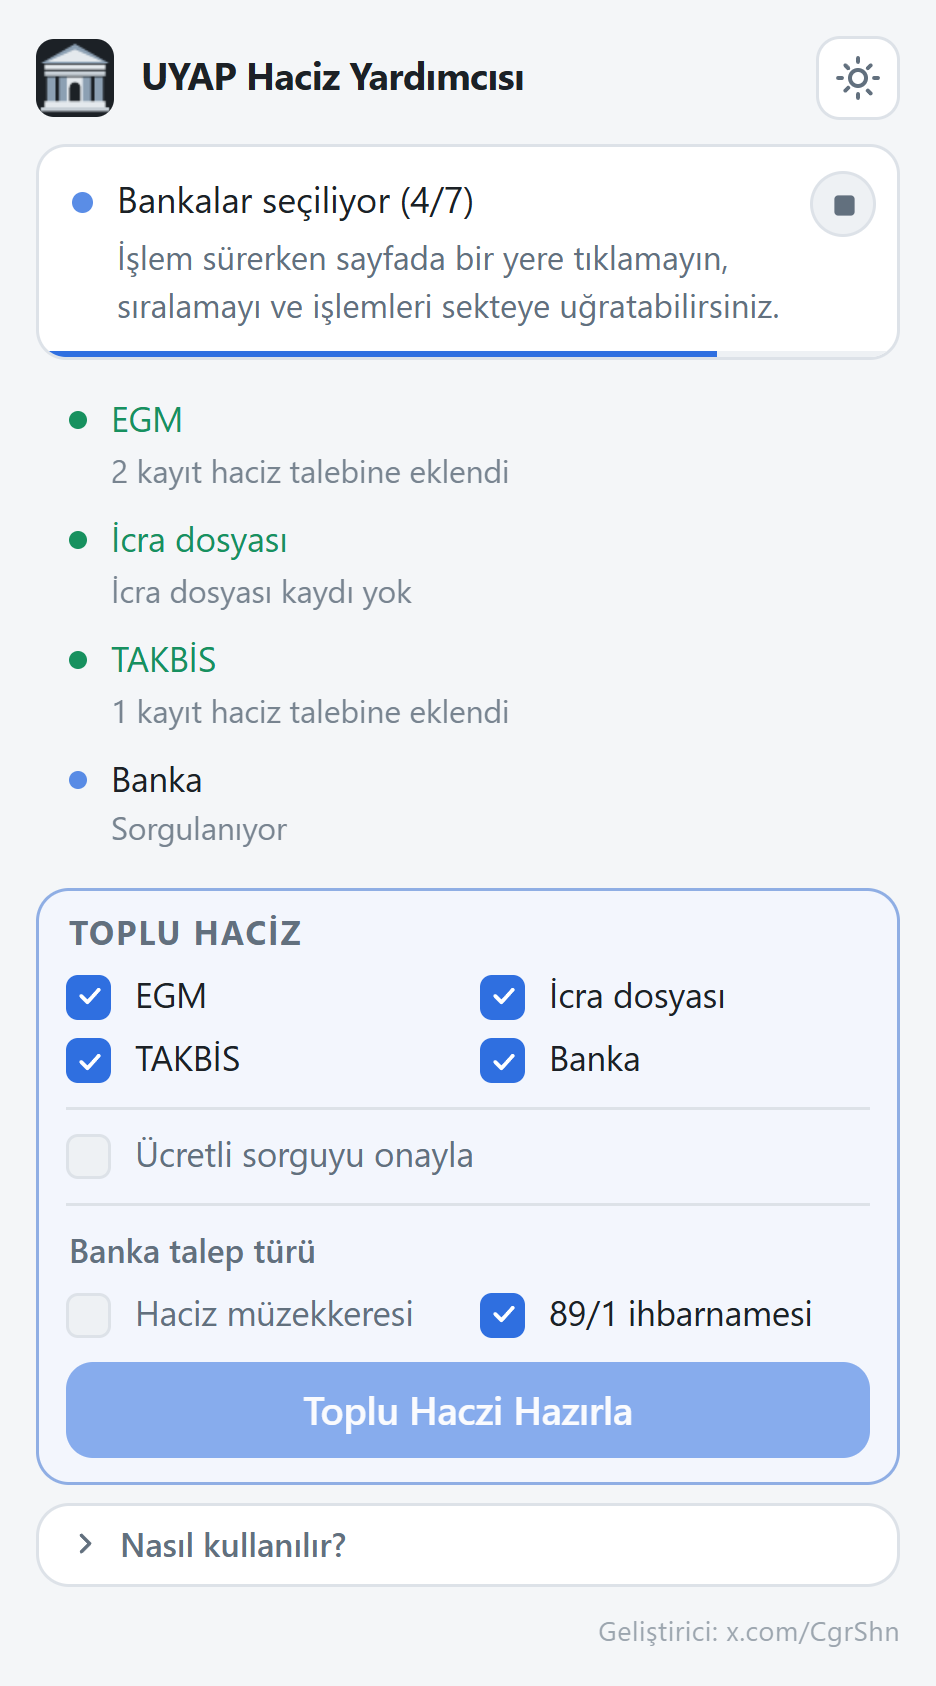
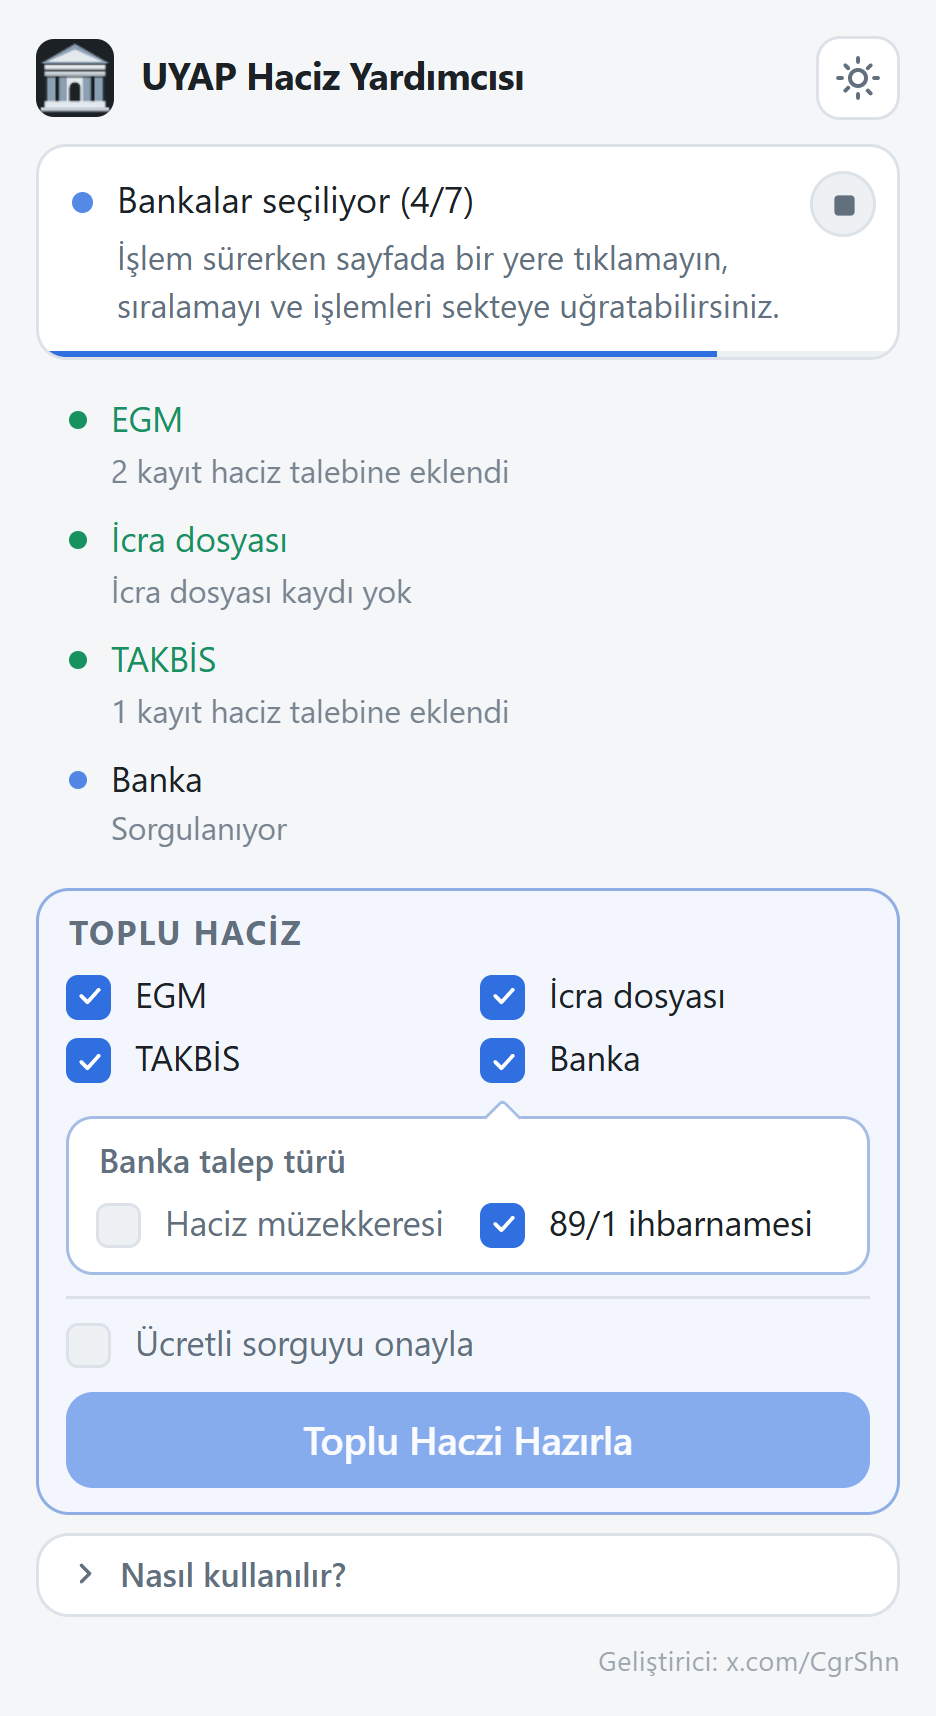
Banka talep türü Banka'ya bağlı alt kutuda, yalnız Banka seçiliyken görünür
- Banka talep türü tür tiklerinin hemen altına, ücretli sorgu onayının üstüne
  alındı. Üstündeki çentik Banka'yı gösteriyor, "89/1 ihbarnamesi"nin tiki
  Banka'nın tikinin tam altına düşüyor.
- Banka seçili değilken kutu gizli. Gizlenince seçim kaybolmaz, Banka yeniden
  seçilince aynen döner.
- README ve pencere görseli güncellendi.

diff --git a/popup.html b/popup.html
@@ -87,7 +87,7 @@
             <span class="check__label">TAKBİS</span>
           </label>
           <label class="check">
-            <input type="checkbox" data-opt="toplu.banka">
+            <input type="checkbox" data-opt="toplu.banka" aria-controls="evrak">
             <span class="check__box">
               <svg viewBox="0 0 24 24" width="10" height="10" aria-hidden="true">
                 <path d="m5 12 5 5L19 7" fill="none" stroke="currentColor" stroke-width="3"
@@ -98,21 +98,12 @@
           </label>
         </div>
 
-        <label class="check check--sep">
-          <input type="checkbox" data-opt="toplu.paid">
-          <span class="check__box">
-            <svg viewBox="0 0 24 24" width="10" height="10" aria-hidden="true">
-              <path d="m5 12 5 5L19 7" fill="none" stroke="currentColor" stroke-width="3"
-                    stroke-linecap="round" stroke-linejoin="round"/>
-            </svg>
-          </span>
-          <span class="check__label">Ücretli sorguyu onayla</span>
-        </label>
-
-        <!-- Banka talebinin evrak türü de ayrı bir karardır: çizgiyle ayrılır.
-             İkisi aynı anda seçilemez; bu yüzden girdiler radyo düğmesidir,
-             yalnız görünüşleri tik kutusudur. Öntanımlısı 89/1. -->
-        <div class="evrak check--sep" role="radiogroup" aria-labelledby="evrak-title">
+        <!-- Banka talebinin evrak türü Banka'nın bir parçasıdır: Yalnız Banka
+             seçiliyken görünür ve hemen altında, üstündeki çentikle Banka'yı
+             gösteren bir alt kutuda durur. İkisi aynı anda seçilemez. Bu yüzden
+             girdiler radyo düğmesidir, yalnız görünüşleri tik kutusudur.
+             Öntanımlısı 89/1. -->
+        <div id="evrak" class="evrak" role="radiogroup" aria-labelledby="evrak-title">
           <div id="evrak-title" class="evrak__title">Banka talep türü</div>
           <div class="picks">
             <label class="check">
@@ -137,6 +128,17 @@
             </label>
           </div>
         </div>
+
+        <label class="check check--sep">
+          <input type="checkbox" data-opt="toplu.paid">
+          <span class="check__box">
+            <svg viewBox="0 0 24 24" width="10" height="10" aria-hidden="true">
+              <path d="m5 12 5 5L19 7" fill="none" stroke="currentColor" stroke-width="3"
+                    stroke-linecap="round" stroke-linejoin="round"/>
+            </svg>
+          </span>
+          <span class="check__label">Ücretli sorguyu onayla</span>
+        </label>
       </div>
 
       <!-- Düğme bölümün en altındadır: önce ne yapılacağı seçilir, sonra basılır. -->

diff --git a/popup.css b/popup.css
@@ -423,7 +423,51 @@ html[data-theme="dark"] .ico-moon { display: inline; }
   border-top: 1px solid var(--border);
 }
 
-/* Banka talebinin evrak türü: iki seçenekten biri daima seçilidir. */
+/* Banka talebinin evrak türü: iki seçenekten biri daima seçilidir. Banka'ya
+   bağlı bir alt kutudur. Yalnız Banka seçiliyken görünür (bkz. popup.js),
+   tür tiklerinin hemen altında durur, üstündeki çentik Banka'yı gösterir.
+   Kutunun iç boşluğu iki yanda eşit olduğu için içindeki ızgaranın sağ
+   sütunu dıştaki ızgaranınkiyle aynı yerden başlar: "89/1 ihbarnamesi"nin
+   tiki "Banka"nın tikinin tam altına düşer. */
+.evrak {
+  position: relative;
+  margin-top: 10px;
+  padding: 6px 9px 7px;
+  border: 1px solid color-mix(in srgb, var(--accent) 32%, var(--border));
+  border-radius: 9px;
+  background: var(--surface);
+  animation: evrak-in .16s ease-out;
+}
+
+/* Çentik: 45° döndürülmüş küçük kare. Yalnız üst ve sol kenarı çizilir, alt
+   yarısı kutunun içinde kalır ve kutunun üst kenarlığını o noktada örter.
+   Konum: Dıştaki ızgaranın sağ sütunu %50 + 4 px'te başlar, tikin ortası
+   7,5 px içeride. Hesaplanan değer (%50 + 7,5 px) çentiği her ölçekte 1 px
+   sağa kaydırıyordu (ölçüm 2026-11-09, 1x, 1,25x, 1,5x, 2x ve 3x). 6,5 px ile
+   uç tikin tam ortasına düşer. */
+.evrak::before {
+  content: "";
+  position: absolute;
+  top: -5px;
+  left: calc(50% + 6.5px);
+  width: 8px;
+  height: 8px;
+  background: inherit;
+  border-top: 1px solid color-mix(in srgb, var(--accent) 32%, var(--border));
+  border-left: 1px solid color-mix(in srgb, var(--accent) 32%, var(--border));
+  border-top-left-radius: 2px;
+  transform: rotate(45deg);
+}
+
+@keyframes evrak-in {
+  from { opacity: 0; transform: translateY(-3px); }
+  to { opacity: 1; transform: none; }
+}
+
+@media (prefers-reduced-motion: reduce) {
+  .evrak { animation: none; }
+}
+
 /* Başlık, bölüm başlığıyla (.grp__title) aynı puntodadır; ikisi de kendi
    seçenek kümesinin üstünde duran başlıktır. Büyük harf ve harf aralığı
    yalnız bölüm başlığındadır: bu satır bir cümledir. */

diff --git a/popup.js b/popup.js
@@ -38,6 +38,7 @@ const el = {
   start: document.getElementById('start'),
   stop: document.getElementById('stop'),
   reset: document.getElementById('reset'),
+  evrak: document.getElementById('evrak'),
   howto: document.querySelector('.howto'),
   status: document.getElementById('status'),
   statusText: document.getElementById('status-text'),
@@ -82,6 +83,14 @@ function applyPrefs() {
     const value = prefs[group]?.[key];
     input.checked = input.type === 'radio' ? value === input.value : !!value;
   }
+
+  syncBankaEvrak();
+}
+
+// Banka talep türü Banka'nın bir parçasıdır: Yalnız Banka seçiliyken
+// görünür. Gizlenince seçim kaybolmaz, Banka yeniden seçilince aynen döner.
+function syncBankaEvrak() {
+  el.evrak.hidden = prefs.toplu.banka === false;
 }
 
 function savePrefs() {
@@ -273,6 +282,7 @@ for (const input of document.querySelectorAll('[data-opt]')) {
     const [group, key] = input.dataset.opt.split('.');
     prefs[group][key] = input.type === 'radio' ? input.value : input.checked;
     savePrefs();
+    syncBankaEvrak();
   });
 }
 

diff --git a/README.md b/README.md
@@ -99,10 +99,10 @@ Ayarlar, eklenti simgesine basınca açılan penceredeki **Toplu Haciz** bölüm
 
 - **EGM / İcra dosyası / TAKBİS / Banka:** Hangi türlerin hazırlanacağı. Dördü de varsayılan olarak açıktır. Tiki kaldırılan tür hiç
   sorgulanmaz.
+- **Banka talep türü:** Banka seçiliyken hemen altındaki kutuda görünür. Banka haczi talebi **Haciz müzekkeresi** ya da **89/1
+  ihbarnamesi** olarak hazırlanır. Yalnız biri seçilebilir, varsayılan 89/1'dir.
 - **Ücretli sorguyu onayla:** Ücretsiz hak bittiğinde UYAP'ın açtığı "... ücret alınacaktır" kutusunu onaylar. Varsayılan olarak
   **kapalıdır**. Kapalıyken kutu **İptal** ile kapatılır ve o bölüm geçilir.
-- **Banka talep türü:** Banka haczi talebi **Haciz müzekkeresi** ya da **89/1 ihbarnamesi** olarak hazırlanır. Yalnız biri seçilebilir,
-  varsayılan 89/1'dir.
 - **Durdur:** İşlem sürerken durum kutusunun sağında küçük bir düğme (■) olarak görünür. Akışı o anda keser, eklentinin açtığı şerh, ücret
   ya da bilgi penceresini kapatır. O ana kadar talebe eklenen kayıtlar UYAP'ta kalır, sayısı durum kutusunda yazar. Ardından **Toplu
   Haczi Hazırla** ile baştan başlanabilir.
